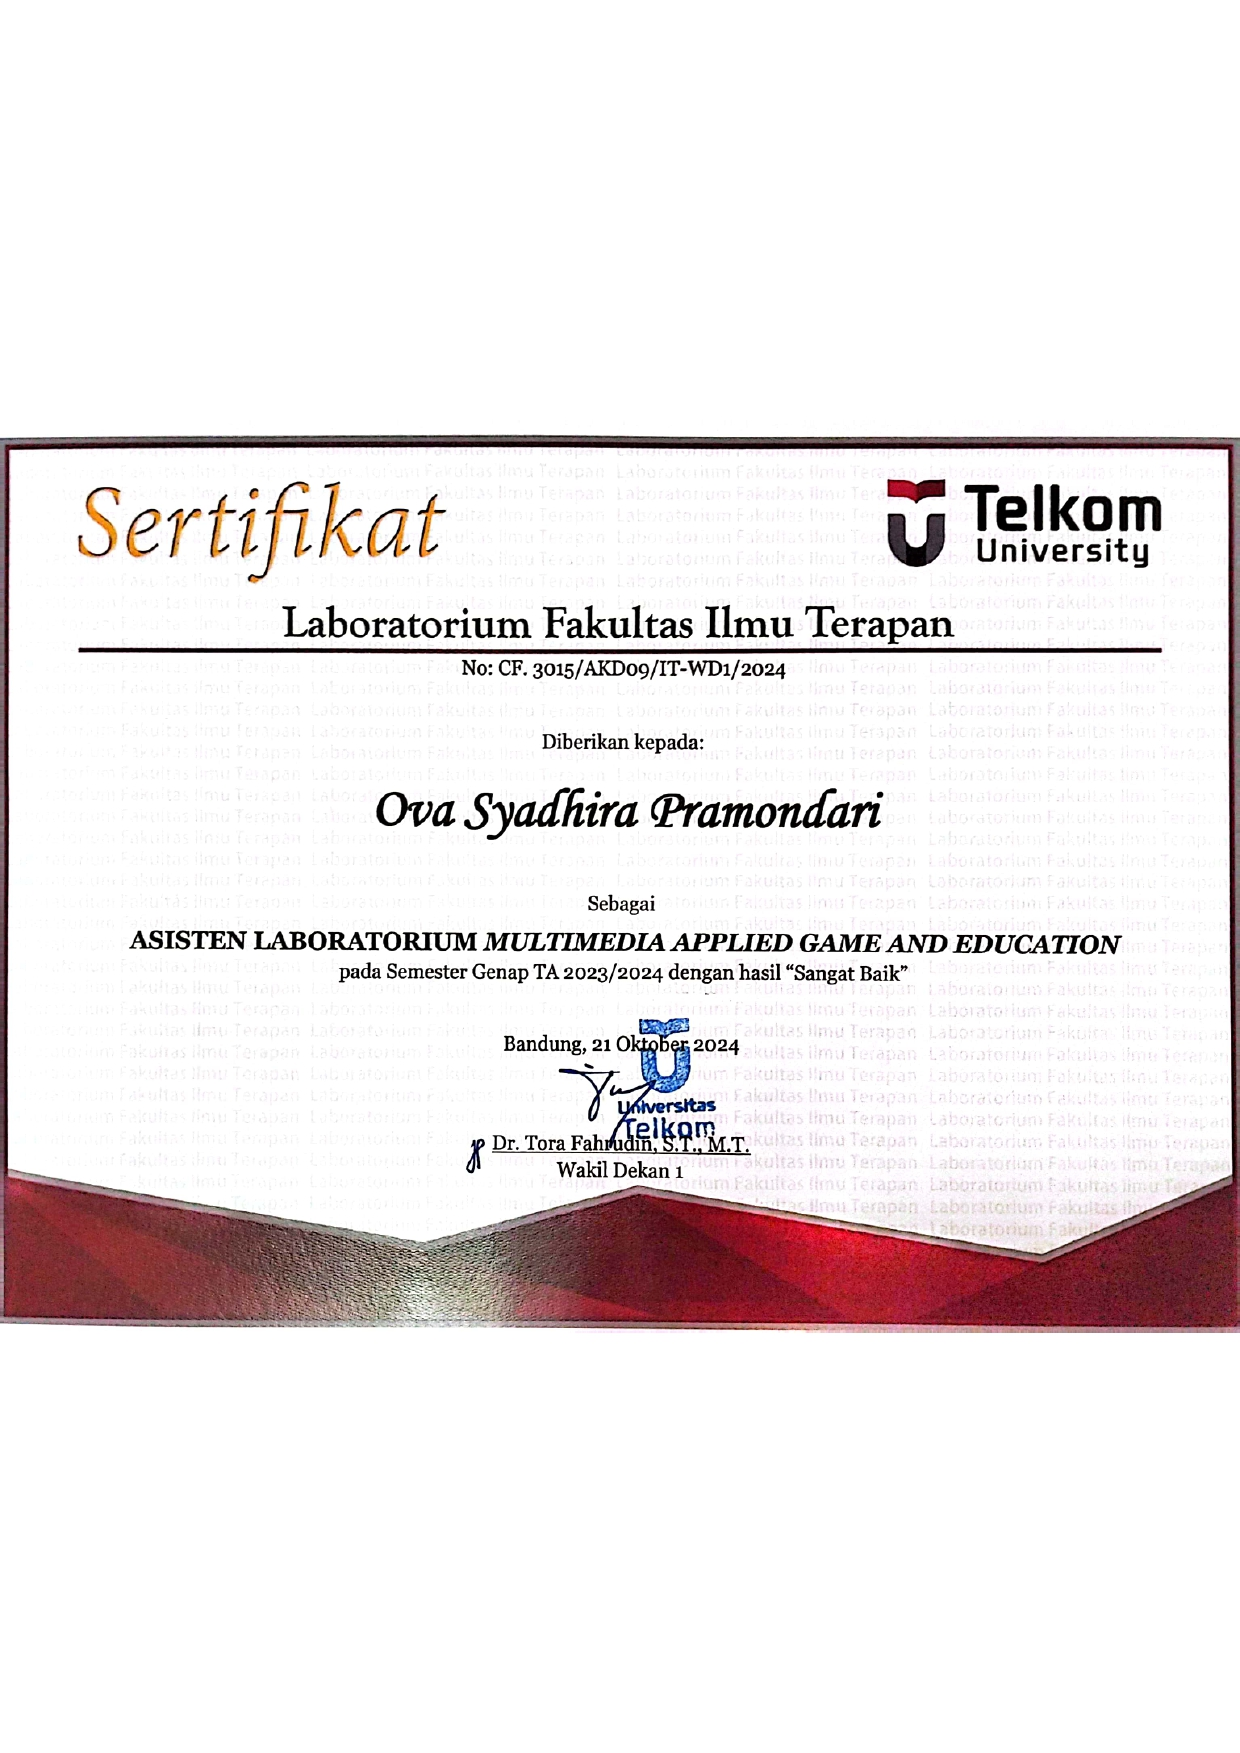
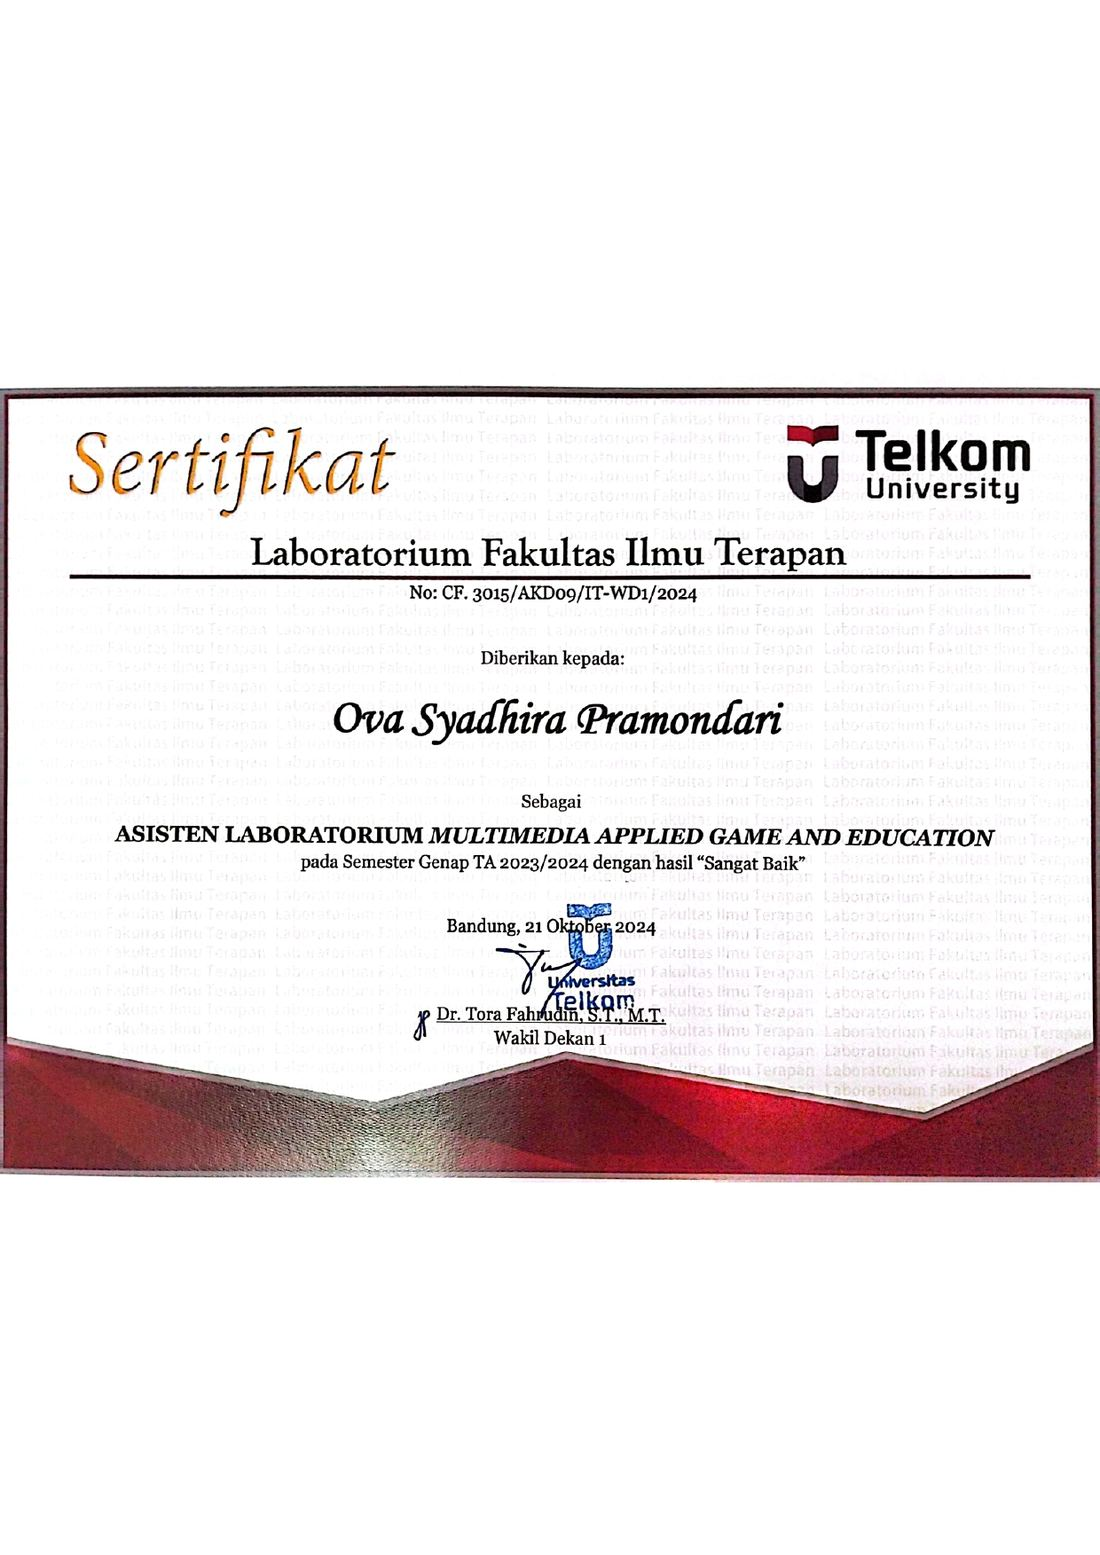
Add photo documentation to Achievements + new short course credential
- Add clickable certificate/photo thumbnails to 3 achievement cards
  (UI/UX competition, lab assistant certificate, short course certificate)
- Add new achievement card: Supervisor Assistant, International
  Collaborative Short Course (Telkom University x Coimbatore Institute
  of Technology, Jan 2025)
- Rename mentored.jpg -> short-course-certificate.jpg to match content
- Resize/recompress achievement photos for web (798KB/360KB/240KB -> ~150KB each)
- Switch achievements grid to 2 columns, center text vertically on
  photo-less cards for visual balance

Changed region(s): [[0.4945, 0.5865, 0.5564, 0.6791], [0.2782, 0.71, 0.3709, 0.7408]]

diff --git a/index.html b/index.html
@@ -372,34 +372,64 @@
       </div>
 
       <div class="testimonial-grid">
-        <div class="achievement-card reveal">
-          <div class="achievement-icon">
-            <svg viewBox="0 0 24 24"><path d="M8 4h8v4a4 4 0 0 1-8 0V4Z" fill="none" stroke="currentColor" stroke-width="1.7" stroke-linejoin="round"/><path d="M8 5H5v2a3 3 0 0 0 3 3M16 5h3v2a3 3 0 0 1-3 3M10 15h4v3h-4zM8 20h8" fill="none" stroke="currentColor" stroke-width="1.7" stroke-linecap="round" stroke-linejoin="round"/></svg>
+        <div class="achievement-card has-photo reveal">
+          <a class="achievement-photo" href="assets/img/achievements/uiux-certificate.jpg" target="_blank" rel="noopener" aria-label="View photo documentation — UI/UX competition">
+            <img src="assets/img/achievements/uiux-certificate.jpg" alt="Team celebrating 2nd place at the UI/UX design competition" loading="lazy" style="object-position:center 25%">
+            <span class="achievement-photo-view">🔍 View proof</span>
+          </a>
+          <div class="achievement-body">
+            <div class="achievement-icon">
+              <svg viewBox="0 0 24 24"><path d="M8 4h8v4a4 4 0 0 1-8 0V4Z" fill="none" stroke="currentColor" stroke-width="1.7" stroke-linejoin="round"/><path d="M8 5H5v2a3 3 0 0 0 3 3M16 5h3v2a3 3 0 0 1-3 3M10 15h4v3h-4zM8 20h8" fill="none" stroke="currentColor" stroke-width="1.7" stroke-linecap="round" stroke-linejoin="round"/></svg>
+            </div>
+            <h3>2nd Place — National UI/UX Design Competition</h3>
+            <span class="achievement-org">Universitas Sebelas Maret (UNS) · November 2024</span>
+            <p>Designed a mobile app prototype using Design Thinking and UX principles in a national
+              inter-university competition, judged on creativity, user flow, and presentation.</p>
           </div>
-          <h3>2nd Place — National UI/UX Design Competition</h3>
-          <span class="achievement-org">Universitas Sebelas Maret (UNS) · November 2024</span>
-          <p>Designed a mobile app prototype using Design Thinking and UX principles in a national
-            inter-university competition, judged on creativity, user flow, and presentation.</p>
         </div>
 
         <div class="achievement-card reveal">
-          <div class="achievement-icon">
-            <svg viewBox="0 0 24 24"><circle cx="9" cy="8" r="3" fill="none" stroke="currentColor" stroke-width="1.7"/><circle cx="17" cy="9" r="2.4" fill="none" stroke="currentColor" stroke-width="1.7"/><path d="M3.5 20c.5-4 3-6.2 6.6-6.2 3.5 0 5.9 2.1 6.5 5.7M17 13.5c2.2.2 3.7 1.7 4.1 4.3" fill="none" stroke="currentColor" stroke-width="1.7" stroke-linecap="round"/></svg>
+          <div class="achievement-body">
+            <div class="achievement-icon">
+              <svg viewBox="0 0 24 24"><circle cx="9" cy="8" r="3" fill="none" stroke="currentColor" stroke-width="1.7"/><circle cx="17" cy="9" r="2.4" fill="none" stroke="currentColor" stroke-width="1.7"/><path d="M3.5 20c.5-4 3-6.2 6.6-6.2 3.5 0 5.9 2.1 6.5 5.7M17 13.5c2.2.2 3.7 1.7 4.1 4.3" fill="none" stroke="currentColor" stroke-width="1.7" stroke-linecap="round"/></svg>
+            </div>
+            <h3>Mentored 30+ Students</h3>
+            <span class="achievement-org">Teaching Assistant, Algorithm &amp; Programming · Telkom University</span>
+            <p>Guided students through core programming logic, debugging, and practical assignment
+              evaluation while collaborating with lecturers on course materials.</p>
           </div>
-          <h3>Mentored 30+ Students</h3>
-          <span class="achievement-org">Teaching Assistant, Algorithm &amp; Programming · Telkom University</span>
-          <p>Guided students through core programming logic, debugging, and practical assignment
-            evaluation while collaborating with lecturers on course materials.</p>
         </div>
 
-        <div class="achievement-card reveal">
-          <div class="achievement-icon">
-            <svg viewBox="0 0 24 24"><rect x="4" y="4" width="16" height="6" rx="1.4" fill="none" stroke="currentColor" stroke-width="1.7"/><rect x="4" y="14" width="16" height="6" rx="1.4" fill="none" stroke="currentColor" stroke-width="1.7"/><circle cx="7.5" cy="7" r=".9" fill="currentColor"/><circle cx="7.5" cy="17" r=".9" fill="currentColor"/></svg>
+        <div class="achievement-card has-photo reveal">
+          <a class="achievement-photo" href="assets/img/achievements/lab-devices.jpg" target="_blank" rel="noopener" aria-label="View photo documentation — lab assistant certificate">
+            <img src="assets/img/achievements/lab-devices.jpg" alt="Laboratory assistant certificate from Telkom University" loading="lazy" style="object-position:center 42%">
+            <span class="achievement-photo-view">🔍 View proof</span>
+          </a>
+          <div class="achievement-body">
+            <div class="achievement-icon">
+              <svg viewBox="0 0 24 24"><rect x="4" y="4" width="16" height="6" rx="1.4" fill="none" stroke="currentColor" stroke-width="1.7"/><rect x="4" y="14" width="16" height="6" rx="1.4" fill="none" stroke="currentColor" stroke-width="1.7"/><circle cx="7.5" cy="7" r=".9" fill="currentColor"/><circle cx="7.5" cy="17" r=".9" fill="currentColor"/></svg>
+            </div>
+            <h3>40+ Lab Devices Maintained</h3>
+            <span class="achievement-org">Laboratory Assistant · Faculty of Applied Science, Telkom University</span>
+            <p>Kept network devices and lab computers running reliably for hundreds of students through
+              proactive maintenance, OS imaging, and fast troubleshooting turnaround.</p>
           </div>
-          <h3>40+ Lab Devices Maintained</h3>
-          <span class="achievement-org">Laboratory Assistant · Faculty of Applied Science, Telkom University</span>
-          <p>Kept network devices and lab computers running reliably for hundreds of students through
-            proactive maintenance, OS imaging, and fast troubleshooting turnaround.</p>
+        </div>
+
+        <div class="achievement-card has-photo reveal">
+          <a class="achievement-photo" href="assets/img/achievements/short-course-certificate.jpg" target="_blank" rel="noopener" aria-label="View photo documentation — international short course certificate">
+            <img src="assets/img/achievements/short-course-certificate.jpg" alt="Certificate of Appreciation as Supervisor Assistant, Collaborative Short Course between Telkom University and Coimbatore Institute of Technology" loading="lazy" style="object-position:center 38%">
+            <span class="achievement-photo-view">🔍 View proof</span>
+          </a>
+          <div class="achievement-body">
+            <div class="achievement-icon">
+              <svg viewBox="0 0 24 24"><circle cx="12" cy="12" r="9" fill="none" stroke="currentColor" stroke-width="1.6"/><path d="M3.5 9.5c5.5 1.7 11.5 1.9 17 .6M3 14.5c5.5-1.1 11.9-.7 17.5 1.3M9.5 3.2c3.2 4.6 4.7 11 4 17.6" fill="none" stroke="currentColor" stroke-width="1.5" stroke-linecap="round"/></svg>
+            </div>
+            <h3>Supervisor Assistant — International Collaborative Short Course</h3>
+            <span class="achievement-org">Telkom University × Coimbatore Institute of Technology · January 2025</span>
+            <p>Supported facilitation of a joint short course between Telkom University and Coimbatore
+              Institute of Technology (India), assisting international participants across sessions.</p>
+          </div>
         </div>
       </div>
     </div>

diff --git a/css/style.css b/css/style.css
@@ -376,12 +376,14 @@ input,textarea{ font-family:inherit; }
 [data-theme="dark"] .g-tags span{ background:var(--bg); }
 
 /* ---------- Achievements ---------- */
-.testimonial-grid{ display:grid; grid-template-columns:repeat(3, 1fr); gap:26px; }
+.testimonial-grid{ display:grid; grid-template-columns:repeat(2, 1fr); gap:26px; }
 .achievement-card{
   background:var(--surface); border:1px solid var(--border); border-radius:var(--radius-lg);
-  padding:28px; box-shadow:var(--shadow-sm); transition:transform .3s ease, box-shadow .3s ease, border-color .3s ease;
+  overflow:hidden; box-shadow:var(--shadow-sm); transition:transform .3s ease, box-shadow .3s ease, border-color .3s ease;
 }
 .achievement-card:hover{ transform:translateY(-6px); box-shadow:var(--shadow-md); border-color:color-mix(in srgb, var(--accent) 40%, var(--border)); }
+.achievement-card:not(.has-photo){ display:flex; align-items:center; }
+.achievement-body{ padding:28px; }
 .achievement-icon{
   width:48px; height:48px; border-radius:14px; display:grid; place-items:center; margin-bottom:16px;
   background:var(--accent-soft); color:var(--accent);
@@ -390,6 +392,16 @@ input,textarea{ font-family:inherit; }
 .achievement-card h3{ font-size:1.02rem; margin-bottom:8px; }
 .achievement-org{ display:block; font-size:.78rem; font-weight:600; color:var(--text-soft); margin-bottom:12px; }
 .achievement-card p{ font-size:.9rem; margin-bottom:0; }
+
+.achievement-photo{ position:relative; display:block; aspect-ratio:16/9; overflow:hidden; background:var(--bg-alt); }
+.achievement-photo img{ width:100%; height:100%; object-fit:cover; display:block; transition:transform .4s ease; }
+.achievement-photo-view{
+  position:absolute; inset:auto 0 0 0; padding:10px 14px; font-size:.78rem; font-weight:600; color:#fff;
+  background:linear-gradient(0deg, rgba(0,0,0,.72), rgba(0,0,0,0)); opacity:0; transform:translateY(6px);
+  transition:opacity .25s ease, transform .25s ease;
+}
+.achievement-photo:hover img{ transform:scale(1.05); }
+.achievement-photo:hover .achievement-photo-view{ opacity:1; transform:translateY(0); }
 
 /* ---------- Contact ---------- */
 .contact-grid{ display:grid; grid-template-columns:.85fr 1.15fr; gap:56px; }
